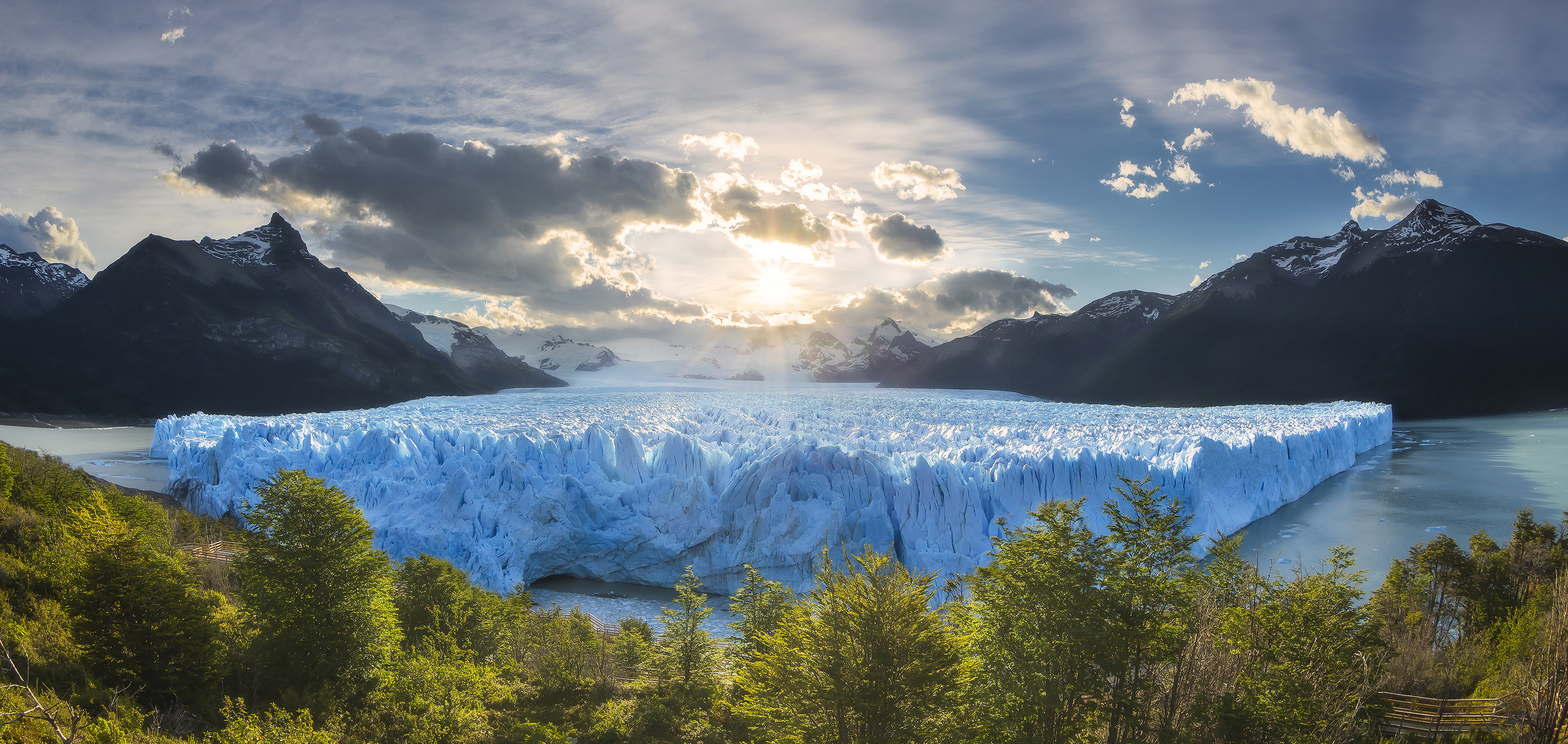
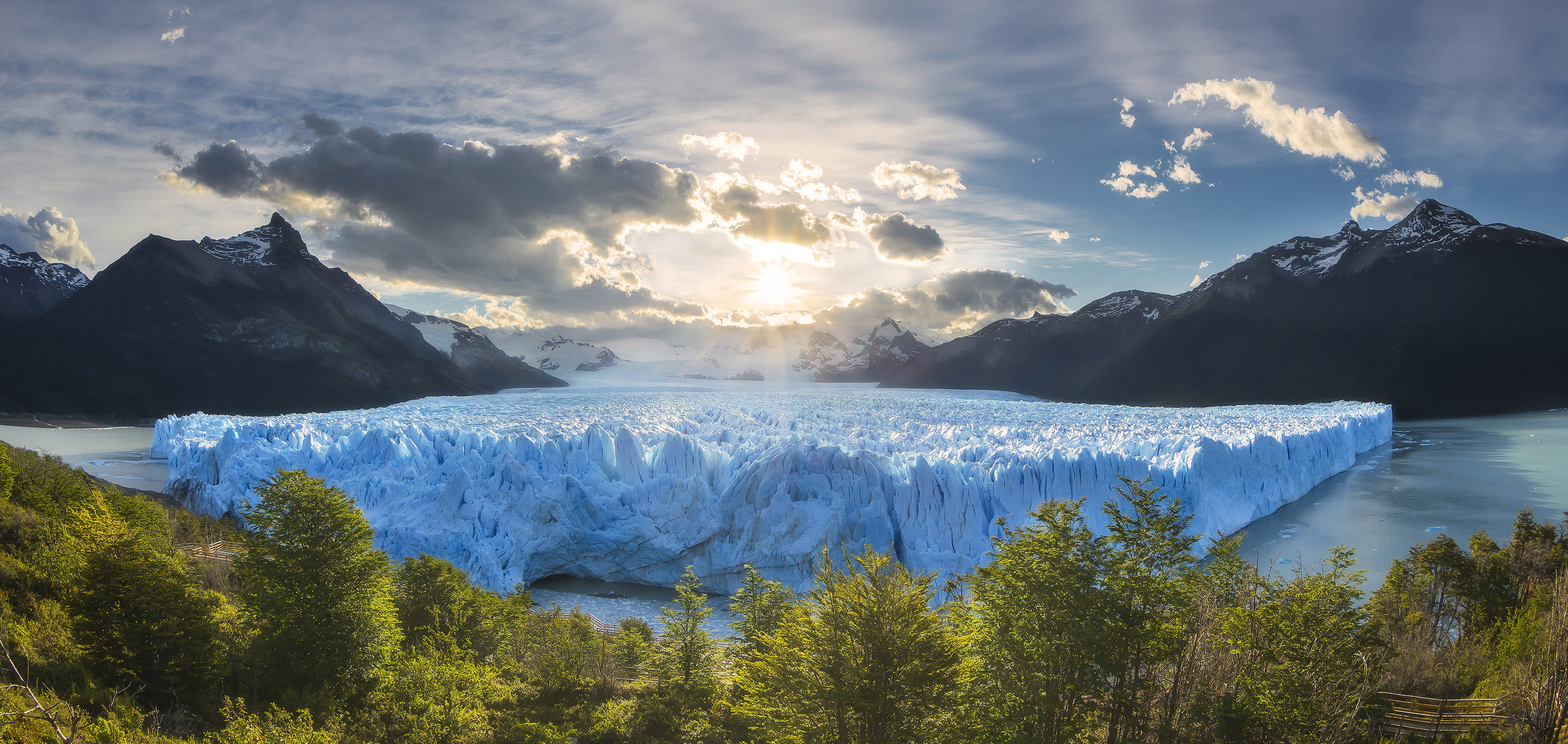
fixed bugs and compressed images

diff --git a/javascript/main.js b/javascript/main.js
@@ -1,0 +1,47 @@
+document.addEventListener("DOMContentLoaded" , function () {
+
+    let buttons = document.querySelectorAll(".buttons");
+    let images = document.querySelectorAll(".image");
+    
+    if (!buttons || !images) return;
+
+    preloadImages(images);
+
+    images.forEach(image => {
+        image.style.left = 0 + "px";
+    })
+
+    let interval;
+    buttons.forEach(button => {
+        button.addEventListener("mousedown", function() {
+           interval = setInterval(() => checkButtonClick(button, images), 5);
+        })
+        button.addEventListener("mouseup", function() {
+            clearInterval(interval);
+        })
+        button.addEventListener("mouseleave", function() {
+            clearInterval(interval);
+        })
+    })
+})
+
+function checkButtonClick(button, images) {
+    if (button.innerHTML == "&lt;")
+        {
+        images.forEach(image => {
+                image.style.left = parseInt(image.style.left) + 3 + "px";
+            })
+        } 
+    else if (button.innerHTML == "&gt;")
+        {
+            images.forEach(image => {
+                image.style.left = parseInt(image.style.left) - 3 + "px"; 
+            })
+        } 
+}
+
+function preloadImages(images){
+    images.forEach((image,index) => {
+        image.setAttribute('src','images/' + imgSource[index]);
+    })
+}

diff --git a/index.html b/index.html
@@ -4,7 +4,8 @@
         <meta charset="UTF-8">
         <title>Javascript horizontal image scrolling</title>
         <link rel="stylesheet" href="style.css">
-        <script src="javascript.js"></script>
+        <script src="javascript/global.js"></script>
+        <script src="javascript/main.js"></script>
     </head>
 
     <body>
@@ -13,7 +14,7 @@
             <div class="image-block">
                 <img class="image" src="images/img1.jpg">
                 <img class="image" src="images/img2.jpg">
-                <img class="image" src="images/img3.png">
+                <img class="image" src="images/img3.jpg">
                 <img class="image" src="images/img4.jpg">
             </div>
             <button class="buttons">></button>

diff --git a/javascript/global.js b/javascript/global.js
@@ -1,0 +1,1 @@
+let imgSource = ["img1.jpg", "img2.jpg", "img3.jpg","img4.jpg"];
